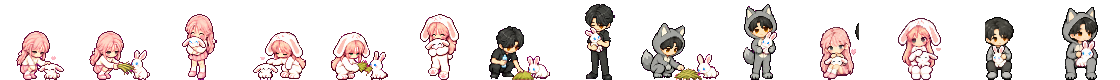
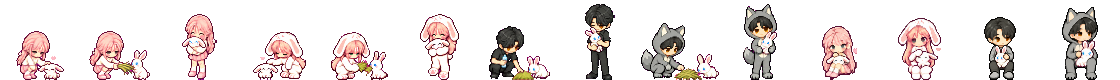
App 0.13.7：修掃地旁邊的黑線、沙發抱兔兔時頭少一塊
- 掃地四格：切圖範圍吃到旁邊參考圖的狼尾巴尖，留下一條黑線；改成只留人物那一大塊（灰塵保留）
- 湛湛坐沙發抱澎澎：切圖時把頭髮左邊切掉了，重切
- 小棠回報

Claude-Session: https://claude.ai/code/session_01QnomjsAVHW2wdTHqYaYeWR

Changed region(s): [[0.7188, 0.325, 0.7812, 0.975], [0.875, 0.225, 0.9062, 1.0]]

diff --git a/room.js b/room.js
@@ -30,7 +30,7 @@ const PEN = [[150, 690], [260, 700], [330, 660], [200, 650], [300, 730], [120, 7
 
 // ---------- 像素版（room-px/）----------
 // 房間圖 384×256，一格＝原圖 4 單位；邏輯座標照舊用 1536×1024。
-const PXV = '6';
+const PXV = '7';
 const PXI = (n) => `room-px/${n}.png?v=${PXV}`;
 // 像素房間的家具位置跟原圖差一點，這些點另外對過
 const SPOTS_PX = {

diff --git a/app.js b/app.js
@@ -1,6 +1,6 @@
 
-const VERSION = '0.13.6';
-import { createRoom } from './room.js?v=0.13.6';
+const VERSION = '0.13.7';
+import { createRoom } from './room.js?v=0.13.7';
 // 小湛的圖（GPT 畫的，放在 pet/）
 const PET_IMG = {
   shirt: ['normal', 'happy', 'hungry', 'sad'],

diff --git a/CLAUDE.md b/CLAUDE.md
@@ -18,7 +18,7 @@
 
 ## 版本與更新
 
-- 改了 App 要同時改 `app.js` 的 `const VERSION` 和 `version.json`（目前 0.13.6）。App 打開或切回來時會比對 `version.json`，不同就自己重新載入，不用重裝。
+- 改了 App 要同時改 `app.js` 的 `const VERSION` 和 `version.json`（目前 0.13.7）。App 打開或切回來時會比對 `version.json`，不同就自己重新載入，不用重裝。
 - 主題腳本改了要把 header 的 `@version` 往上加（目前 0.8.2）。
   - 小棠空間每小時檢查一次 `raw.githubusercontent.com/.../skin/xiaotang-claude.user.js`，版本不同就換新並重新整理 Claude 分頁。
   - raw.githubusercontent.com 有大約 5 分鐘快取，剛推完可能還拿到舊的。
